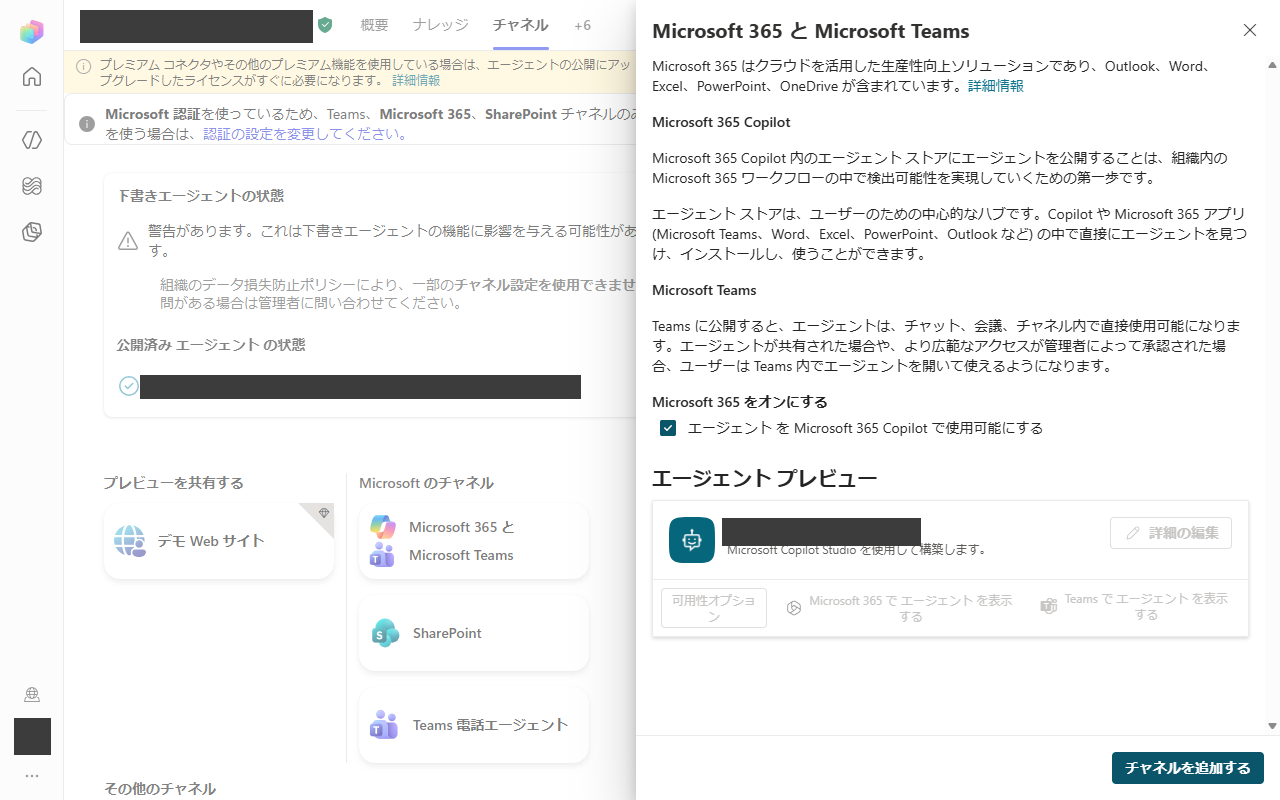
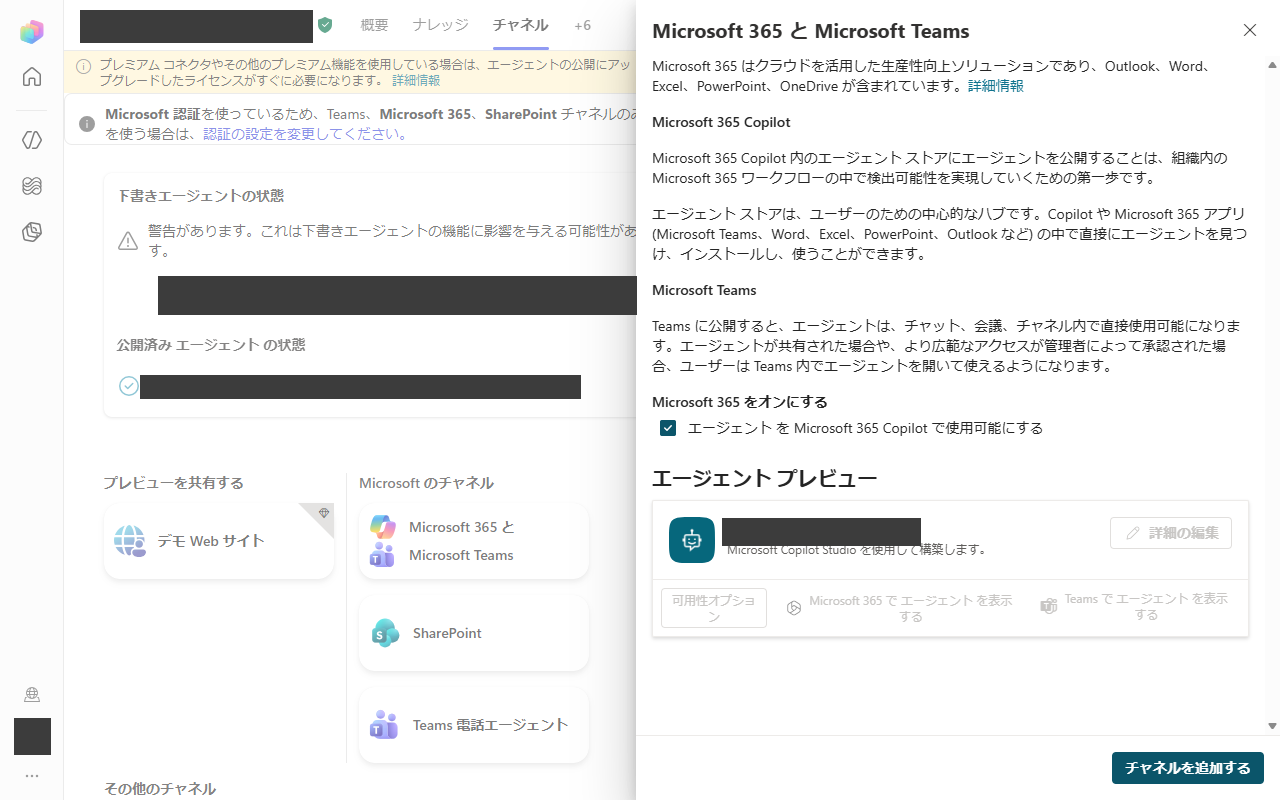
docs: Japanese versions of the route guides; re-redact two screenshots (#191)

Changed region(s): [[0.125, 0.3438, 0.5, 0.4062]]

diff --git a/docs/custom_mcp_fallback_route.md b/docs/custom_mcp_fallback_route.md
@@ -1,3 +1,119 @@
+日本語 | [English](#english)
+
+# MCP の接続が作れないときの経路: カスタムコネクタもトンネルも使わない
+
+Copilot Studio で自分の MCP サーバーへの接続が作れないときに、Microsoft 提供のツールだけで同じことを実現する手順です。どの組織でも使えます。カスタムコネクタもトンネルも要らず、組織のルールの例外を求める必要もありません。
+
+> **注意: 公開する前に必ず読んでください。**
+> API キー認証なし(「キーなし登録」)で公開したツールは、**リンクを知っている人なら誰でも**使えます。
+> だから、各自が**自分の環境**(自分のエージェントと自分のマシン)を作ってください。
+> 他の人のツールやエージェントのリンクは使わないでください。使うと**その人のマシン**でコマンドが動き、**その人のデータ**が読まれます。
+> 詳しくは[キーなしのツールを共有しない](#caution-ja)を見てください。
+
+## 1. こんな症状のとき
+
+Copilot Studio のエージェントに MCP サーバー(またはカスタムコネクタ)を追加すると、接続の作成で失敗します。次のようなメッセージが出ます。
+
+> `<ツール名>` への接続を作成できませんでした。組織の管理者設定でブロックされたか、接続を作成できませんでした。管理者に連絡してください。
+
+![接続を作るダイアログ(エラーの帯は伏せています)](img/custom_mcp_fallback/step1_connection_failed.png)
+
+*画像は接続を作るダイアログです。作成を押すと、前述のエラーがこのダイアログに帯で表示されます(画像ではその帯を黒く塗っています)。*
+
+このメッセージについて、知っておくと役に立つことがあります。
+
+- 出るのは接続を作る時点なので、認証とは関係ありません。「API キー」と「認証なし」のどちらにしても、正しいキーを入れても、結果は変わりません。
+- 環境の中でどのコネクタや MCP サーバーを使えるかは、組織の管理者設定で決まります。カスタム MCP サーバーは、使えない環境がよくあります。
+- この設定を変えられるのは管理者だけです。下の経路は設定の変更に頼りません。自前のカスタムコネクタを使わない、別の作りです。
+
+## 2. 手順
+
+考え方は次のとおりです。エージェントに自分のツールへのコネクタを持たせず、Microsoft 提供のツールだけを持つエージェントを使います。ローカルのツールを呼ぶ処理は、**会話**に乗せて運びます。
+
+1. **Standard タイプの Copilot Studio エージェントを作ります。** 通常の「Standard」を選びます。Copilot Studio のクレジットを消費する GitHub-Copilot タイプは選ばないでください。
+2. エージェントの設定で**モデルを選びます**。
+3. **使うことを許可されている Microsoft 提供のツールだけを追加します。** たとえば Work IQ MCP のツール(Mail、Calendar、Teams、OneDrive、SharePoint、Copilot、User)です。これらはエラーなしで接続が作れました。Microsoft 提供のツールで、サインイン中のユーザーの既存の接続が使われるためです。
+
+   ![7つの Work IQ ツールを追加したツールページ](img/custom_mcp_fallback/step2_tools_seven.png)
+
+4. エージェントを**公開します**。動いている Teams のチャットを今すぐ新しいバージョンに切り替える必要がなければ、「最新バージョンを強制する」はオフのままにします。
+
+   ![公開ダイアログ](img/custom_mcp_fallback/step3_publish.png)
+
+5. **Microsoft 365 Copilot チャネルをオンにします**(「エージェントを Microsoft 365 Copilot で使用可能にする」)。そのうえでチャネルを追加します。
+
+   ![チャネルのページ(Microsoft 365 チャネル)](img/custom_mcp_fallback/step4_channel.png)
+
+6. Microsoft 365 Copilot の**エージェントストアから、エージェントを追加します**。ストアを開き、エージェントを開いて「追加」を押します。
+
+   ![「追加」ボタンのあるエージェントストアの画面](img/custom_mcp_fallback/step5_store.png)
+   ![追加を終えて、チャットできる状態のエージェント](img/custom_mcp_fallback/step6_added.png)
+
+7. エージェントのチャットを開き、アドレスバーから**チャットの URL をコピーします**。
+8. **同意カードを、それぞれ一度ずつ承認します。** エージェントが各ツールを初めて使うときに、チャットに同意カードが出ます。使うツールの分だけ承認してください。どのカードも、エージェントが**あなた自身の**メール、予定表、チャット、ファイルにアクセスすることを許可するものです。承認する前に内容を読んでください。
+9. **製品の設定に URL を入れます。** どの Copilot チャットを使うかは、この URL で決まります。
+
+これ以降、製品はチャットを通してエージェントとやり取りします。コネクタは使いません。製品がローカルのツールを必要とすると、モデルはツール名と引数を書いたコードブロックを返します。ローカルの製品がそのツールを実行し、結果を次のチャットのメッセージで返します。外からマシンに接続する必要はなく、トンネルもカスタムコネクタも要りません。(この方式の詳しい説明は、リポジトリの新しい版の `docs/connector_less_route.md` にあります。)
+
+## 3. Teams と Microsoft 365 へのリンク
+
+エージェントを公開してチャネルをオンにすると、検索しなくてもリンクから開けます。リンクの形は2種類あります。`<>` の部分は自分の値に置き換えてください。実際の識別子は公開しないでください。
+
+- `https://teams.microsoft.com/l/app/<appId>`: Teams でエージェントのアプリのページ(「開く」「追加」があるページ)を開きます。`<appId>` は、チャネルを追加したときに Teams がエージェントに付けるアプリ ID です。
+- `https://m365.cloud.microsoft/chat/agent/<id>`: Microsoft 365 Copilot でエージェントのチャットを直接開きます。`<id>` は、エージェントストアのリンクのボタンに出るエージェント ID です。
+
+どちらのリンクも、クリックした人が自分のサインインでそのエージェントを開きます。鍵と同じように扱ってください(次の注意を見てください)。
+
+<a id="caution-ja"></a>
+
+## 注意: キーなしのツールを共有しない
+
+ツールを **API キー認証なし**で公開すると、ツール側は誰が呼んでいるのかを確認しません。リンクやチャットの URL を知っている人なら、誰でも使えます。そのツールがマシン上でコマンドを実行したりファイルを読んだりするなら、呼んだ人がそのマシンで操作することになります。
+
+- **自分の**エージェントを、**自分の**マシンで、**自分のために**作ってください。
+- 同僚がそのまま使えるように、チャットの URL やエージェントのリンク、Teams のリンクを渡すのはやめてください。
+- 他の人のリンクを自分の製品の設定に貼らないでください。貼ると、自分の依頼がその人のマシンで動いてその人のデータに触れます。その人の依頼も、自分に見えてしまいます。
+- リンクをうっかり共有したときは、ストアからエージェントを削除して、新しく公開し直してください(「5. 元に戻す」を見てください)。
+
+## 4. 制限とリスク
+
+- **管理者は、各段階を無効にできます。** Teams へのカスタムアプリのアップロード、Microsoft 365 Copilot チャネル、エージェントの共有、エージェントの利用は、どれもテナントの設定で無効にできます。手順のどこかが灰色で押せないときは、これが理由です。
+- **公開できる数に上限があります。** 環境とテナントごとに、公開できるエージェントの数と、メッセージ数やクレジットの上限があります。Microsoft 提供のツールだけの Standard エージェントなら、GitHub-Copilot タイプのクレジット消費は避けられますが、上限は同じようにかかります。
+- **Work IQ MCP はプレビューです。** ツール名、パラメーター、使えるかどうかは、予告なく変わることがあります。
+- **同意カードは、自分のデータへのアクセスを許可するものです。** Mail、予定表、Teams、OneDrive、SharePoint の答えは、サインインしている本人のデータです。使うものだけを承認してください。
+- **Microsoft 側の動作は変わることがあります。** Copilot Studio や Microsoft 365 Copilot のメニュー、文言、ルールは、Microsoft が変更します。このガイドは、下に書いた時点で動いた内容です。各手順は、実際の画面で確かめてください。
+- この経路は、組織の設定を回避するものではなく、**設定の範囲内**で動きます。使うのは Microsoft 提供のツールとチャネルだけで、例外は求めません。ここで使うツールやチャネルを組織が禁止しているときは、使わずに管理者に相談してください。
+
+## 5. 元に戻す
+
+1. Microsoft 365 Copilot で、自分の一覧からエージェントを外します(エージェントのメニューから削除)。
+2. Copilot Studio で、エージェントの公開を取り消すか、削除します。削除すると、ストアの項目も消えます。
+3. 製品が元の経路に戻るように、製品の設定からチャットの URL を消します。
+4. 同意カードを承認していたら、Microsoft アカウントの「アプリとアクセス許可」のページで、対応する許可を確認して削除します。
+5. コピーしたり共有したりしたリンク(Teams や Microsoft 365 へのリンク)を削除します。
+
+## 6. 確認できたこと、できていないこと
+
+確認できたこと(テスト用テナント1つ、2026年10月):
+
+- Standard タイプのエージェントの作成、モデルの選択、7つの Work IQ ツールの追加、公開、Microsoft 365 チャネルの追加、エージェントストアからの追加は、すべてエラーなしで終わりました。
+- 新しいエージェントにメール、予定表、Teams、ファイルのことを聞くと、以前に作ったエージェントと同じ内容の答えが返りました。
+- 接続を作れない現象は、ダミーのカスタムツールで再現しました。API キーを付けても、認証なしでも同じでした。
+
+確認できていないこと:
+
+- ほかのテナント、ほかの管理者設定、ほかのリージョンやライセンスでの動作。
+- 長く使ったときの安定性。Microsoft がプレビューのツールを変えたあとの動作も含みます。
+- 同意カードの手順。製品の動作から書いたもので、同意カードの画面の写真はここにはありません。
+
+## 画像について
+
+`docs/img/custom_mcp_fallback/` の画像は加工済みです。名前、アカウント、アイコン、エージェント名、識別子などは、塗りつぶした四角で隠しています。画面の言語は日本語です。
+
+---
+
+<a id="english"></a>
+
 # When you cannot build your own MCP connection in Copilot Studio: a route with no custom connector and no tunnel
 
 This is a how-to for any organisation. It describes what to do when the
@@ -25,7 +141,9 @@ creation fails for another reason. The error is of the form:
 > organisation's administrator settings, or the connection could not be
 > created. Contact your administrator.
 
-![The connection dialog showing that the connection could not be created](img/custom_mcp_fallback/step1_connection_failed.png)
+![The connection-creation dialog (the error banner is covered)](img/custom_mcp_fallback/step1_connection_failed.png)
+
+*The image shows the dialog in which the connection is created. When you press Create, the error above appears in this dialog as a banner (covered with a black box in the image).*
 
 Things worth knowing about this message:
 

diff --git a/docs/connector_less_route.md b/docs/connector_less_route.md
@@ -1,3 +1,78 @@
+日本語 | [English](#english)
+
+# コネクタなし経路
+
+## これは何か
+
+通常、Copilot Studio のエージェントはカスタムコネクタ(MCP コネクタ)を持ち、Dev Tunnel を通してこの PC のツールに届きます。これが**コネクタ経路**です。
+
+**コネクタなし経路**は、コネクタもトンネルも使いません。エージェントは、コネクタも自前のツールも持たない普通の Standard エージェントです。ツールを使いたいときは、チャットの返信に、次のようなコードブロックで呼び出しを書きます。
+
+    ```call_tool
+    {"name": "read_file", "arguments": {"path": "..."}}
+    ```
+
+この PC がそのブロックを読み取り、手元のサーバー(`http://127.0.0.1:8000`)に呼び出しを実行して、結果を次のチャットのメッセージで返します。外からこの PC に接続するものはないので、トンネルも公開 URL も、登録するコネクタも要りません。
+
+どちらの経路も使えます。既定はコネクタ経路のままなので、もう一方を選ばないマシンは何も変わりません。
+
+## 必要なもの
+
+- Copilot Studio を使える Microsoft 365 アカウント
+- この製品のインストール(`quickstart.bat` を一度実行してあること)
+
+Dev Tunnel CLI、トンネル、コネクタ、アクセス許可は要りません。
+
+## 新しく使い始める人の手順
+
+1. `quickstart.bat` を実行します。「How should Copilot Studio be allowed to reach this machine?」と聞かれたら **L**(connector-less)を押します。アクセスの質問と Dev Tunnel の手順は省かれます。
+2. Copilot Studio で **Standard** エージェントを作ります。**Tools** の一覧は空のままにして、コネクタは追加しません。公開します。
+3. 公開したエージェントを Microsoft 365 Copilot に追加します(Channels から Microsoft 365 Copilot)。そこでエージェントを開き、チャット画面のアドレスをアドレスバーからコピーします。
+4. `quickstart.bat` が開くダイアログに、そのアドレスを貼ります(あとから貼るなら `configure_env.bat`)。エージェントの URL として保存されます。
+5. `docs/examples/connector_less_agent_instructions.txt` の文章を、Copilot Studio のエージェントの **Instructions** に貼って、もう一度公開します。これがないと、Microsoft のツールも付いているエージェントが、コードブロックによる呼び出しを断ることがあります(「そのツールは存在しません」と答える)。この文章を入れた状態では、測定したすべての実行で呼び出しが守られました。
+6. メールや予定表を使うなら、同じエージェントに Copilot Studio で **Microsoft Work IQ** のツールを追加します。エージェントが初めてそのツールを使うときに、チャットに同意カードが出ます。一度だけ承認してください。
+7. `start_all.bat` を実行します(`quickstart.bat` を最後まで進めてもかまいません)。`doctor.bat` には、Dev Tunnel の確認の代わりに「Tool route: connector-less」という情報の行が1つ出ます。
+
+## すでにコネクタ経路で使っている人の移行手順
+
+専用のインストーラーはありません。同じ製品で、同じ `quickstart.bat` と `start_all.bat` を使います。スキル、フリート、記憶、設定はそのまま残ります。変わるのは、エージェントと設定1つだけです。
+
+1. **今のエージェントとコネクタは、そのまま残します。** 戻るときに使います(「元に戻す」を見てください)。今使っているエージェントの URL(`MCP_IMPL_AGENT_URL`。`MCP_FLEET_AGENT_URL` を設定している場合はそれも)を控えておきます。
+2. Copilot Studio で、**コネクタもツールも付けない**新しい **Standard** エージェントを作ります。Instructions に上の手順5の文章を貼り、メールや予定表が要るなら Work IQ のツールを追加して、公開します。そのうえで Microsoft 365 Copilot に追加し、チャット画面のアドレスをコピーします。今のエージェントからコネクタを外して使い回せるかは、試していません。確認できているのは、新しいエージェントを作る方法です。
+3. `configure_env.bat` を実行して、エージェントの URL(フリート用を設定している場合はそれも)を新しいものに置き換えます。
+4. コックピットの**設定**を開き、**ツール**の中の**ツールの接続方式**(英語表示では「Tool route」)を**コネクタなし**(英語表示では「Connector-less」)に切り替えます。フリートが次に作る会話から、再起動なしで反映されます。すでに動いている会話は、始まったときの経路のままです。
+5. 動いている Dev Tunnel はそのままにします。supervisor はその管理をやめますが、動いているホストを止めることはありません。古いコネクタは、削除するまで、そのトンネルを指したままです。
+6. 確認します。`doctor.bat` に「Tool route: connector-less」と出ること。そのうえで、本番で頼る前に、フリートに小さな作業を1つ(ファイルを読む、次にデータベースを読む)させてみてください。
+
+この経路では、Dev Tunnel もコネクタも要りません。元に戻すことはないと確信できてから、Copilot Studio 側で削除してください。
+
+## エージェントに渡す指示
+
+コネクタ経路では、エージェントがサーバーに接続したときに、サーバー自身の指示が渡ります。コネクタなしのエージェントには接続がないので、この PC が動いているサーバーから同じ指示を読み取り、会話の最初に一度だけ(その会話ではそれ以降は送りません)、ツールの説明の前に付けて送ります。指示は定期的に読み直します。会話の開始時にサーバーに届かなかった場合は、指示なしで会話を始め、ログに1行残します。
+
+## メールと予定表
+
+エージェントに追加した Work IQ のツールをそのまま使います。これらは `call_tool` の中にはありません。普通の Microsoft 365 のチャットと同じように、エージェントが自分で呼び出します。この PC が渡すツール一覧には、名前が `outlook` で始まるツールは入れません。そのようなツールの呼び出しは断ります。この製品がデスクトップのメールソフトを起動することはありません。
+
+## リスクと制限
+
+- **呼び出しはモデルが書きます。** できることはコネクタ経路と同じですが、ブロックの書き間違い(項目の抜け、余計な文字)があると、そのターンは無駄になります。エラーはモデルに返され、たいていは自分で直します。
+- **1ターンが遅くなります。** ツールを呼ぶたびに、チャットが1往復します。このため、この経路ではフリートの無応答の上限とターンの上限を長くしています(既定は、無応答 600 秒、1ターン 1200 秒)。
+- **チャットの長さの制限を受けます。** 結果が非常に大きいときは、モデルに返す前に切り詰め、切り詰めたことをモデルに伝えます。
+- **権限はコネクタ経路と同じです。** サーバー自身の確認(アンロック、ツールごとの権限、フォルダーの規則)が、すべての呼び出しにかかります。この経路で使える範囲が増えることはなく、確認が減ることもありません。
+- **同意カードが出ます。** Work IQ のツールは、初回にチャットで同意を求めます。承認するまで、メールと予定表の依頼は失敗します。
+- **すべての環境での動作は確認していません。** 試したのは、短い作業と長い作業、データベースの読み取り、(Work IQ を付けた場合の)メールと予定表です。ほかのエージェント、テナント、ポリシーでは違う動きをするかもしれません。まず小さな作業で試してください。
+
+## 元に戻す
+
+**設定**の**ツール**を開き、**ツールの接続方式**(英語表示では「Tool route」)を**コネクタ(従来)**(英語表示では「Connector」)にします。そして `configure_env.bat` で、控えておいた古いエージェントの URL を戻します。次の会話から、またコネクタ経路を使います。そのマシンでトンネルを一度も作ったことがなければ、もう一度 `quickstart.bat` を実行し、アクセスの質問に **A** か **T** と答えてください。省かれていた Dev Tunnel の手順が実行されます。
+
+設定ファイルには、`tool_transport=connector` または `tool_transport=connector-less` として保存されます。以前の書き方 `tool_transport=bridge` も、コネクタなしとして読み取ります。
+
+---
+
+<a id="english"></a>
+
 # The connector-less route
 
 ## What it is
